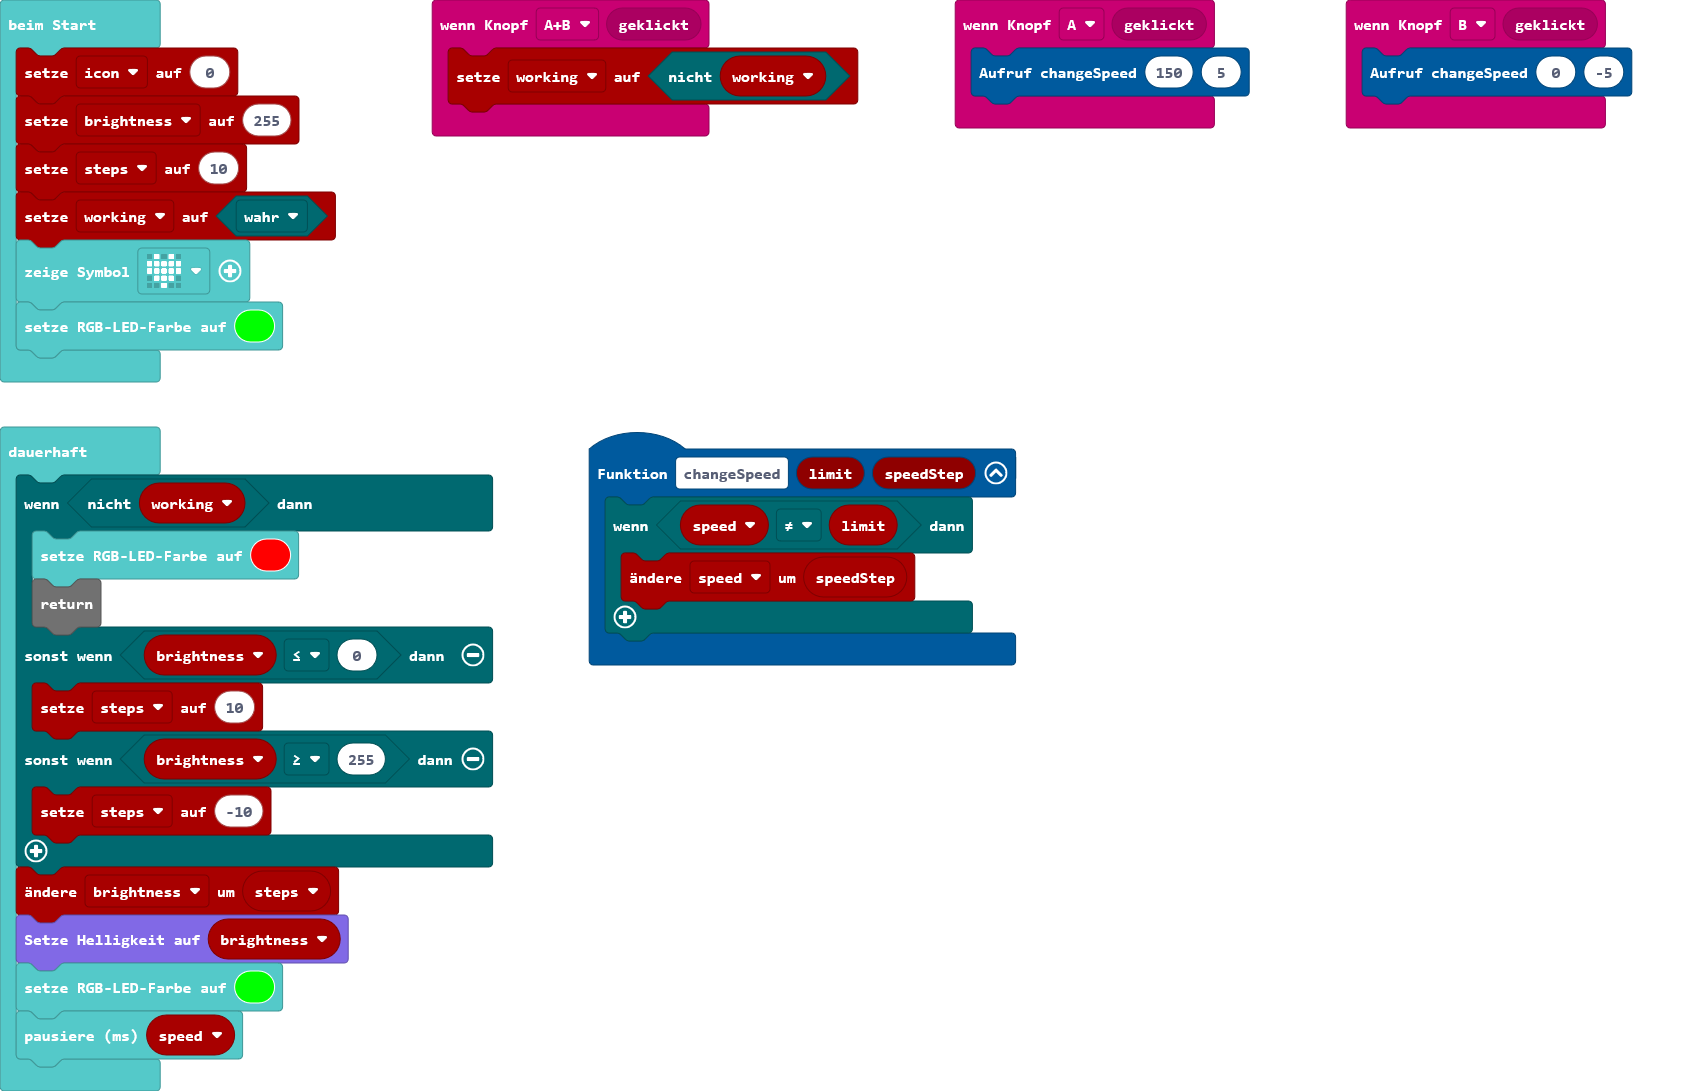
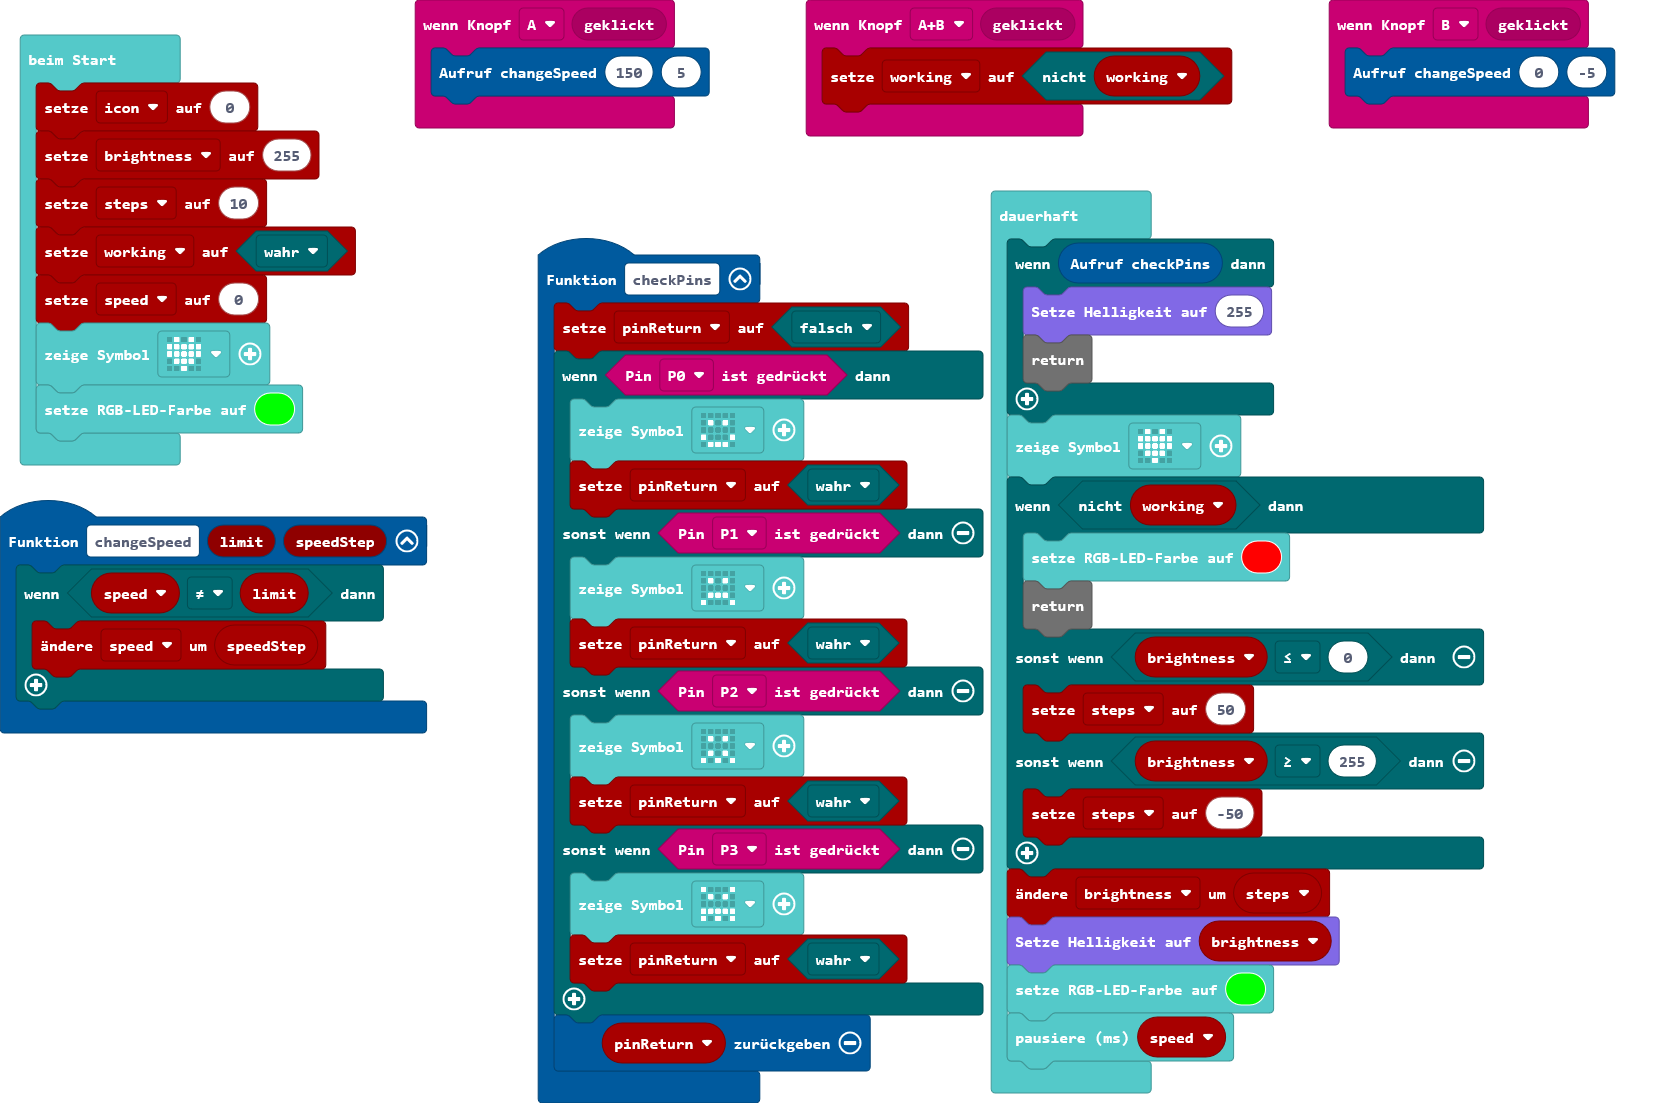
Aktualisiere main.blocks, main.ts

diff --git a/main.ts b/main.ts
@@ -12,22 +12,46 @@ function changeSpeed (limit: number, speedStep: number) {
         speed += speedStep
     }
 }
+function checkPins () {
+    pinReturn = false
+    if (input.pinIsPressed(TouchPin.P0)) {
+        basic.showIcon(IconNames.Happy)
+        pinReturn = true
+    } else if (input.pinIsPressed(TouchPin.P1)) {
+        basic.showIcon(IconNames.Sad)
+        pinReturn = true
+    } else if (input.pinIsPressed(TouchPin.P2)) {
+        basic.showIcon(IconNames.Confused)
+        pinReturn = true
+    } else if (input.pinIsPressed(TouchPin.P3)) {
+        basic.showIcon(IconNames.Angry)
+        pinReturn = true
+    }
+    return pinReturn
+}
+let pinReturn = false
 let speed = 0
 let working = false
 let icon = 0
 let brightness = 255
 let steps = 10
 working = true
+speed = 0
 basic.showIcon(IconNames.Heart)
 basic.setLedColor(0x00ff00)
 basic.forever(function () {
+    if (checkPins()) {
+        led.setBrightness(255)
+        return
+    }
+    basic.showIcon(IconNames.Heart)
     if (!(working)) {
         basic.setLedColor(0xff0000)
         return
     } else if (brightness <= 0) {
-        steps = 10
+        steps = 50
     } else if (brightness >= 255) {
-        steps = -10
+        steps = -50
     }
     brightness += steps
     led.setBrightness(brightness)
